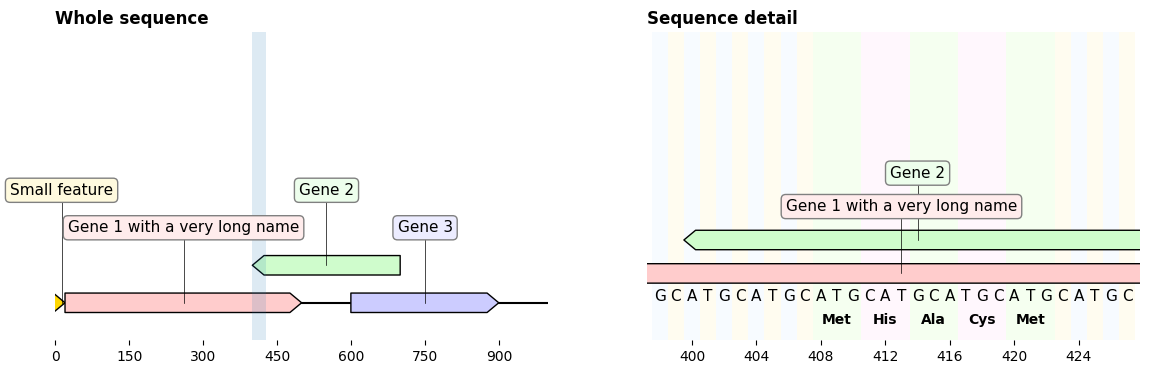
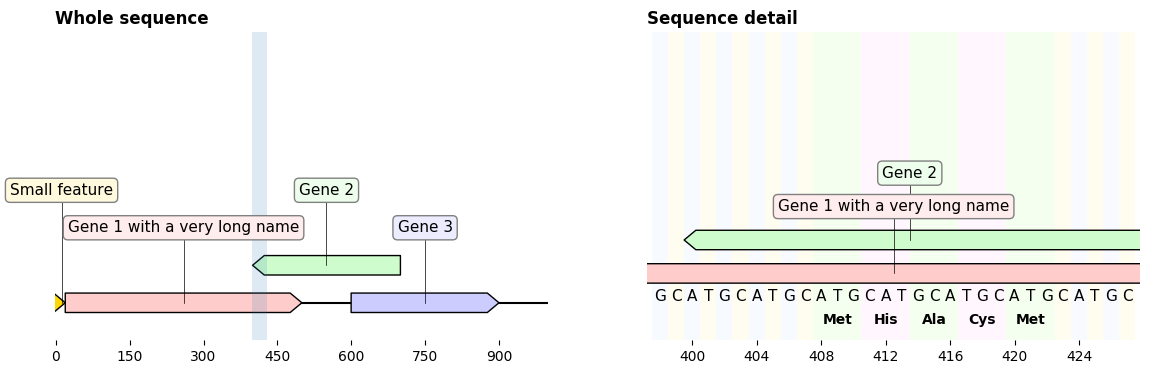
Circular graphics auto-height fixes + updated examples

diff --git a/dna_features_viewer/GraphicRecord/matplotlib_plots.py b/dna_features_viewer/GraphicRecord/matplotlib_plots.py
@@ -91,7 +91,7 @@ class MatplotlibPlottableMixin:
         features_levels,
         annotations_max_level,
         auto_figure_height=False,
-        minimum_yspan=None,
+        ideal_yspan=None,
     ):
         """Redefine y-bounds and figure height.
         """
@@ -103,16 +103,16 @@ class MatplotlibPlottableMixin:
         ) + annotation_height * (annotations_max_level + 1)
         ymin = -1
 
-        # ymax could be even bigger if a "minimum_yspan" has been set.
-        if minimum_yspan is not None:
-            ymax = max(minimum_yspan + ymin, ymax)
+        # ymax could be even bigger if a "ideal_yspan" has been set.
+        if ideal_yspan is not None:
+            ymax = max(ideal_yspan + ymin, ymax)
         ax.set_ylim(ymin, ymax)
         if auto_figure_height:
             figure_width = ax.figure.get_size_inches()[0]
             ax.figure.set_size_inches(figure_width, 1 + 0.4 * ymax)
         if self.plots_indexing == "genbank":
             ax.set_xticklabels([int(i + 1) for i in ax.get_xticks()])
-        return minimum_yspan / (ymax - ymin)
+        return ideal_yspan / (ymax - ymin)
 
     def plot_feature(self, ax, feature, level, linewidth=1.0):
         """Create an Arrow Matplotlib patch with the feature's coordinates.
@@ -214,6 +214,7 @@ class MatplotlibPlottableMixin:
         annotate_inline=False,
         level_offset=0,
         x_lim=None,
+        figure_height=None
     ):
         """Plot all the features in the same Matplotlib ax
 
@@ -259,9 +260,10 @@ class MatplotlibPlottableMixin:
             if (features_levels == {})
             else max(1, max(features_levels.values()))
         )
-        auto_figure_height = ax is None
+        auto_figure_height = (ax is None) and (figure_height is None)
         if ax is None:
-            fig, ax = plt.subplots(1, figsize=(figure_width, max_level))
+            height = figure_height or max_level
+            fig, ax = plt.subplots(1, figsize=(figure_width, height))
         self.initialize_ax(ax, draw_line=draw_line, with_ruler=with_ruler)
         if x_lim is not None:
             ax.set_xlim(*x_lim)
@@ -269,7 +271,7 @@ class MatplotlibPlottableMixin:
         _, ax_height = bbox.width, bbox.height
 
         overflowing_annotations = []
-        minimum_yspan = 0
+        ideal_yspan = 0
         for feature, level in features_levels.items():
             self.plot_feature(ax=ax, feature=feature, level=level)
             if feature.label is not None:
@@ -280,7 +282,7 @@ class MatplotlibPlottableMixin:
                 line_height = height / nlines
                 # Hey look, a magic number!
                 feature_ideal_span = 0.4 * (ax_height / line_height)
-                minimum_yspan = max(minimum_yspan, feature_ideal_span)
+                ideal_yspan = max(ideal_yspan, feature_ideal_span)
                 if overflowing or not annotate_inline:
                     overflowing_annotations.append(
                         GraphicFeature(
@@ -319,7 +321,7 @@ class MatplotlibPlottableMixin:
             features_levels=max([1] + list(features_levels.values())),
             annotations_max_level=max_annotations_level,
             auto_figure_height=auto_figure_height,
-            minimum_yspan=minimum_yspan,
+            ideal_yspan=ideal_yspan,
         )
         return ax, (features_levels, labels_data)
 

diff --git a/dna_features_viewer/CircularGraphicRecord/CircularGraphicRecord.py b/dna_features_viewer/CircularGraphicRecord/CircularGraphicRecord.py
@@ -46,7 +46,7 @@ class CircularGraphicRecord(GraphicRecord):
         top_position=0,
         feature_level_height=0.2,
         annotation_height="auto",
-        labels_spacing=20,
+        labels_spacing=0.2,
         **kw
     ):
 
@@ -87,7 +87,7 @@ class CircularGraphicRecord(GraphicRecord):
         features_levels,
         annotations_max_level,
         auto_figure_height=False,
-        minimum_yspan=None,
+        ideal_yspan=None,
     ):
         """Final display range and figure dimension tweakings."""
         annotation_height = self.determine_annotation_height(
@@ -97,12 +97,11 @@ class CircularGraphicRecord(GraphicRecord):
             features_levels + 1
         )
         ymax = (
-            self.radius
-            + self.feature_level_height * (features_levels + 1)
+            self.feature_level_height * (features_levels + 1)
             + annotation_height * (annotations_max_level + 1)
         )
-        if minimum_yspan is not None:
-            ymax = max(annotation_height * minimum_yspan + ymin, ymax)
+        if ideal_yspan is not None:
+            ymax = max(annotation_height * ideal_yspan + ymin, ymax)
         xmin = -self.radius - self.feature_level_height * (features_levels + 1)
         xmax = -xmin
         ax.set_xlim(xmin, xmax)
@@ -157,4 +156,4 @@ class CircularGraphicRecord(GraphicRecord):
         the figure a 5*radius tall rectangle where the circular plasmid
         occupies the bottom-2 5th and the annotations occupy the top-3 5th.
         """
-        return min(0.2, 3 * self.radius / (1 + max_annotations_level))
+        return min(0.25, 3.0 * self.radius / (1.0 + max_annotations_level))

diff --git a/examples/example_with_gif.py b/examples/example_with_gif.py
@@ -32,7 +32,6 @@ translator = BiopythonTranslator(
 translator.max_line_length = 15
 graphic_record = translator.translate_record(
     record, record_class=CircularGraphicRecord)
-graphic_record.labels_spacing = 30
 
 # ANIMATE INTO A GIF WITH MOVIEPY
 
@@ -40,7 +39,8 @@ duration = 5
 def make_frame(t):
     top_nucleotide_index = t * graphic_record.sequence_length / duration
     graphic_record.top_position = top_nucleotide_index
-    ax, _ = graphic_record.plot(figure_width=8)
+    ax, _ = graphic_record.plot(figure_width=8, figure_height=11)
+    ax.set_ylim(top=2)
     np_image = mplfig_to_npimage(ax.figure)
     plt.close(ax.figure)
     return np_image

diff --git a/examples/translator_with_cutom_colors.py b/examples/translator_with_cutom_colors.py
@@ -26,8 +26,9 @@ translator = BiopythonTranslator(
     features_filters=(lambda f: f.type not in ["gene", "source"],),
     features_properties=lambda f: {"color": color_map.get(f.type, "white")},
 )
+translator.max_line_length = 15
 graphic_record = translator.translate_record(record)
-graphic_record.labels_spacing = 10
+graphic_record.labels_spacing = 100
 ax, _ = graphic_record.plot(figure_width=8)
 ax.figure.savefig("translator_with_custom_colors.png", bbox_inches="tight")
 

diff --git a/examples/with_gc_plot.py b/examples/with_gc_plot.py
@@ -18,6 +18,7 @@ def plot_local_gc_content(record, window_size, ax):
     ]
     xx = np.arange(len(record.seq) - window_size) + 25
     ax.fill_between(xx, yy, alpha=0.3)
+    ax.set_ylim(bottom=0)
     ax.set_ylabel("GC(%)")
 
 
@@ -31,4 +32,4 @@ graphic_record.plot(ax=ax1, with_ruler=False)
 plot_local_gc_content(record, window_size=50, ax=ax2)
 
 fig.tight_layout()  # Resize the figure to the right height
-fig.savefig("with_plot.png")
+fig.savefig("with_gc_plot.png")
